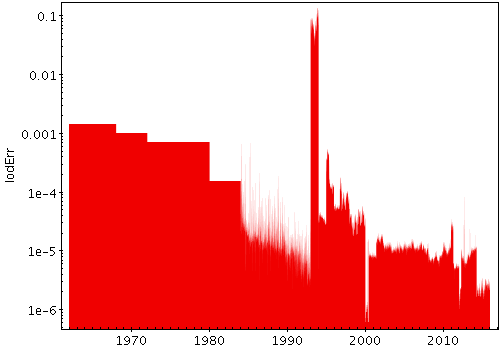
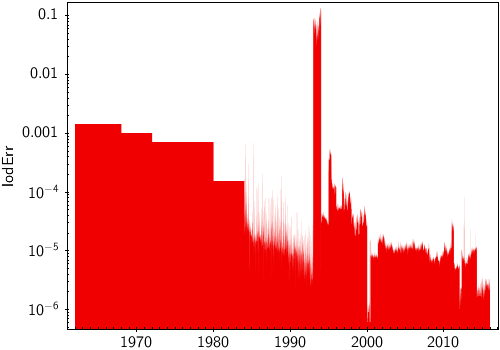
ttools: adjust one plot example to use LaTeX labelling
The plot example for the fill layer type now uses texttype=latex,
just to show that you can, and because the labelling now comes
out in a reasonable way for scientific format numbers.

diff --git a/ttools/src/main/uk/ac/starlink/ttools/build/Plot2Example.java b/ttools/src/main/uk/ac/starlink/ttools/build/Plot2Example.java
@@ -1041,7 +1041,8 @@ public class Plot2Example {
             } ),
             new Plot2Example( "layer-fill", c, PlotTask.TIME, new String[] {
                 "*layer1=fill", "*in1=" + TName.IERS,
-                "*t1=decYear", "*y1=lodErr", "ylog=true",
+                "*t1=decYear", "*y1=lodErr", "ylog=true", null,
+                "texttype=latex", "fontsize=16",
             } ),
             new Plot2Example( "layer-quantile", c, PlotTask.PLANE,
                               new String[] {
